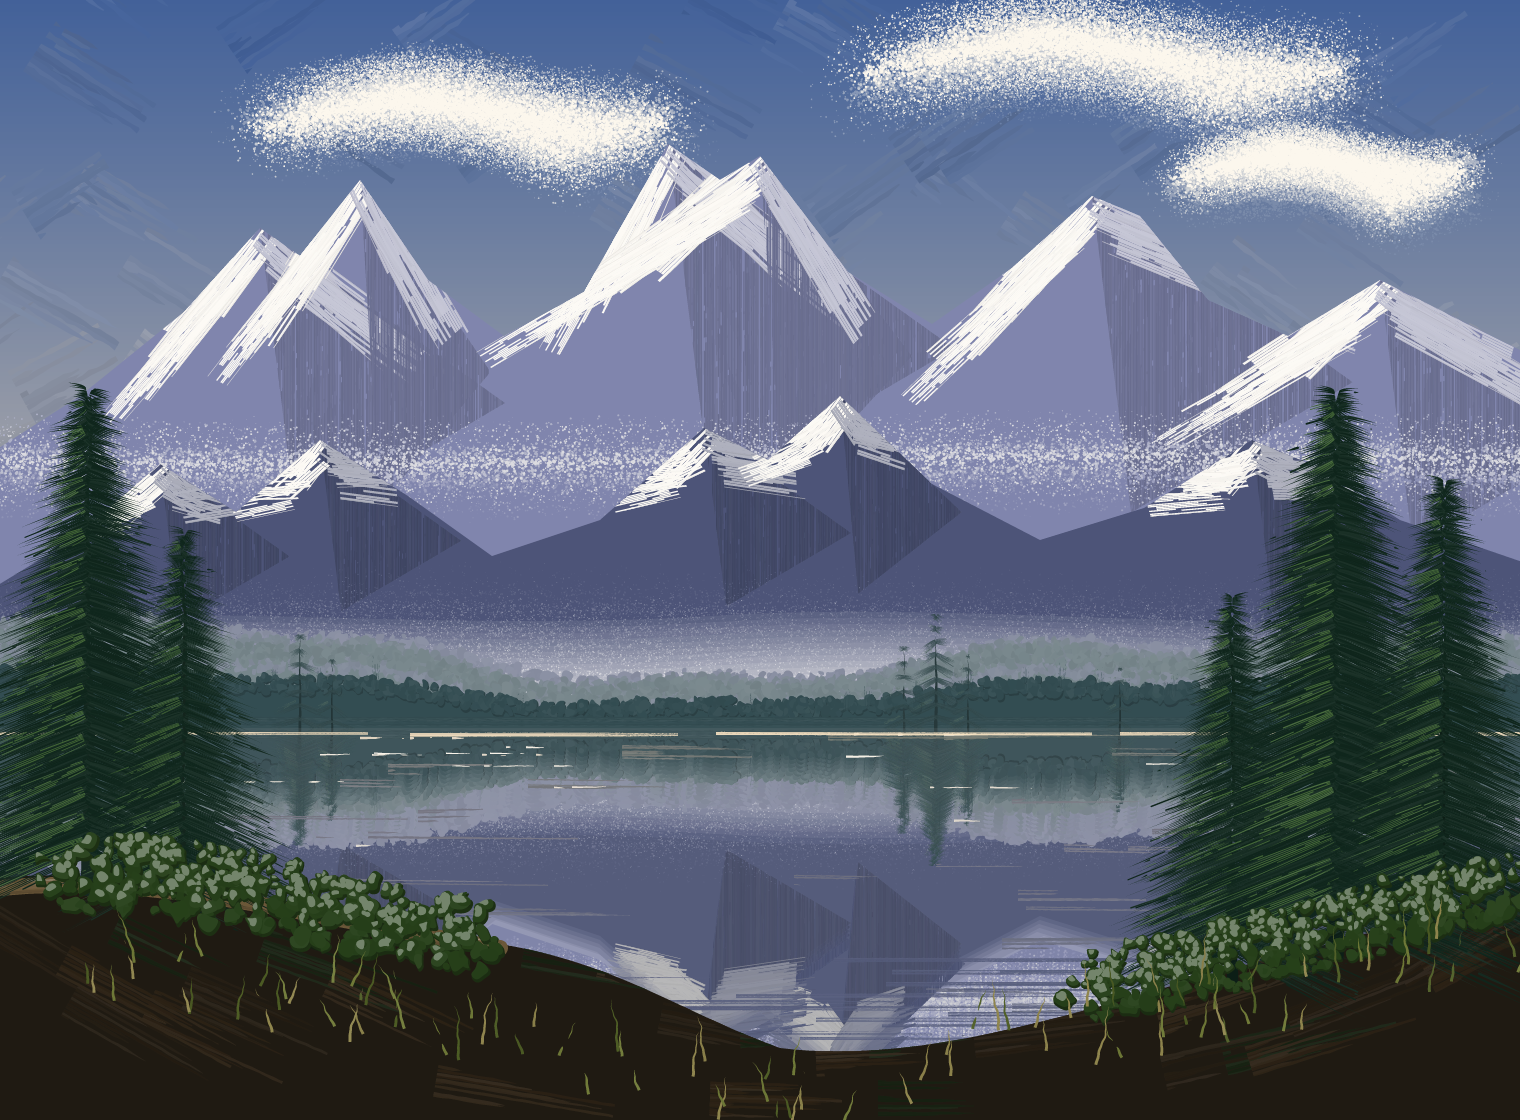
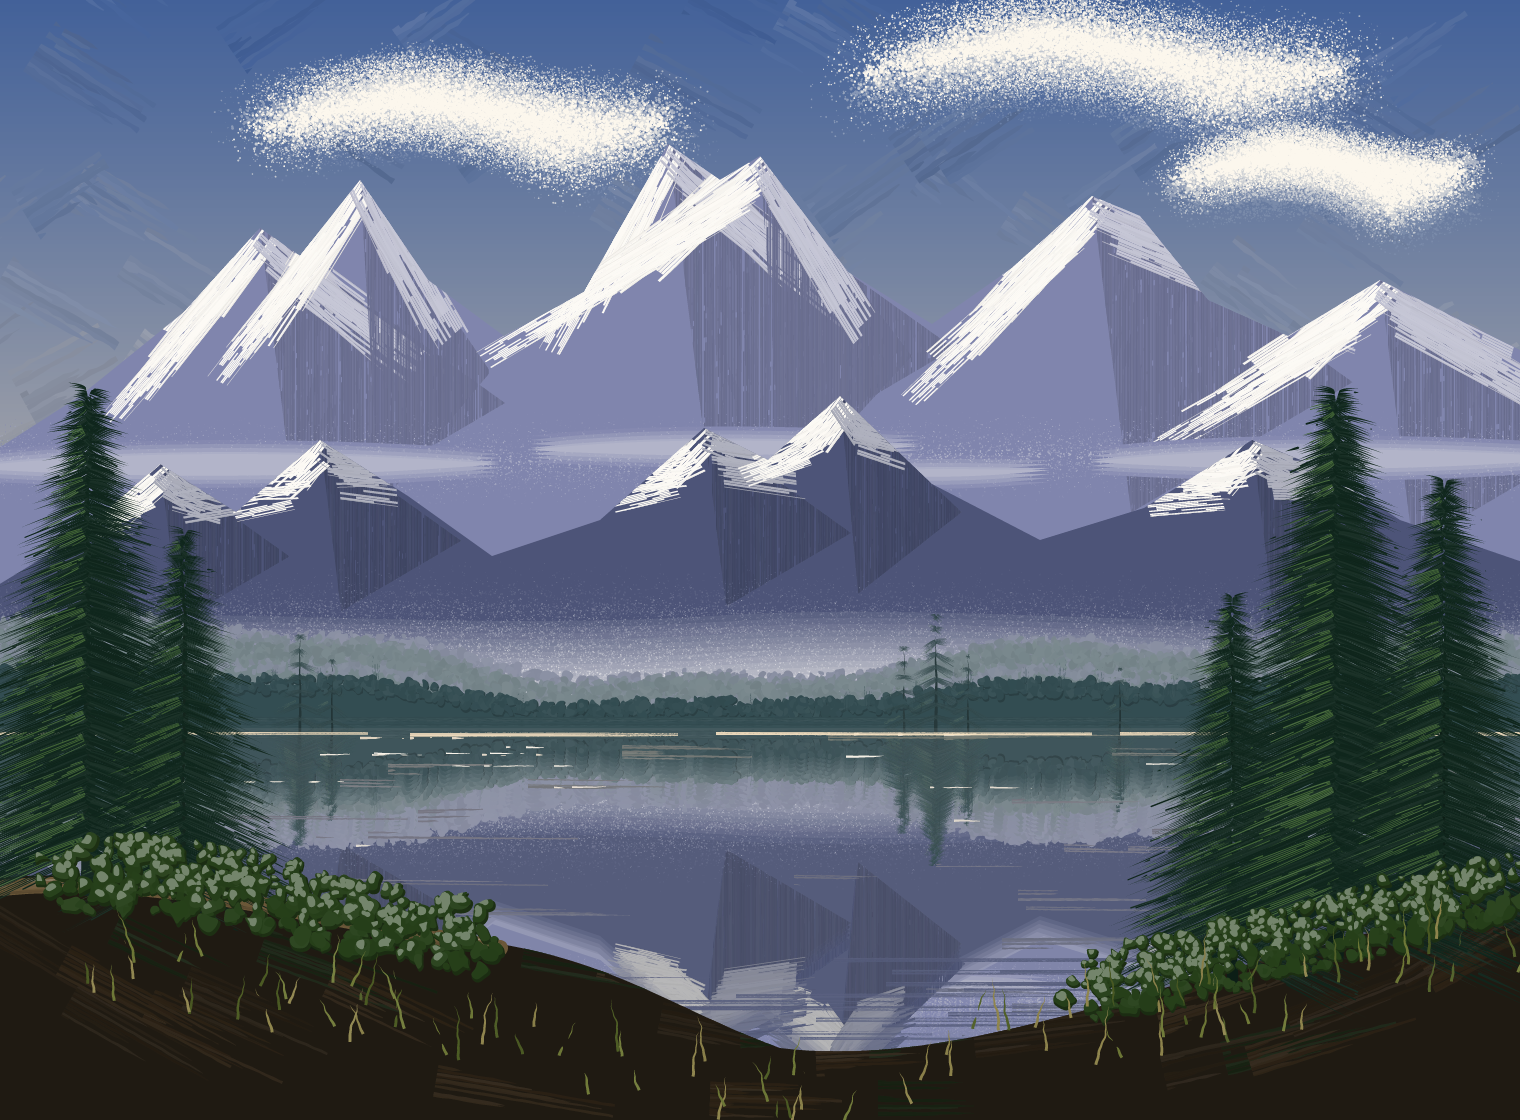
gallery: Alpine Lake's far mist as banks of haze (#407) (#445)
* gallery: Alpine Lake's far mist as banks of haze (#407)

The far range's mist band was one curve of sparse 1pt spray, which at
2x read as a granular streak. It is now four filled lenses of haze with
gaps, lifted both ways by a two-sided directional pkwet, with fine 0.6pt
spray along them -- the treatment #206 gave the near range's foot.

Claude-Session: https://claude.ai/code/session_01GTbCLDB6QC7UV1i7qukUEL

* gallery: re-render Alpine Lake still with the far mist banks (#407)

Claude-Session: https://claude.ai/code/session_01GTbCLDB6QC7UV1i7qukUEL

* gallery: bind Alpine Lake's mist procedures; notes corrections (#407)

Claude-Session: https://claude.ai/code/session_01GTbCLDB6QC7UV1i7qukUEL

---------

diff --git a/notes/407-alpine-lake-far-mist.md b/notes/407-alpine-lake-far-mist.md
@@ -1,0 +1,46 @@
+## Alpine Lake: the far range's mist as banks of haze (issue #407, 2026-10-14)
+
+#206 turned the near range's foot from gravel into haze and left the far range's mist band
+(`lkmist`, element 2, at y=330) as it was: one curve of 1pt spray at `/Density 150` under an
+isotropic `pkwet /Soft 1`. At 2x it read as a granular streak across the far range. The
+cookbook calls that grain correct for vapour, so this is taste, not a defect. All looks were
+judged at 2x against a fresh render of `main`, which matched the committed still byte for byte.
+
+**What changed.** The band is now four banks of haze: filled lenses (`lkwisp`) of different
+lengths, heights and thickness, with gaps between them, plus a sparse 0.6pt spray
+(`/Density 60`) along the old curve. They sit inside one two-sided directional `pkwet`
+(`/Direction 90 /Offset 7 /Layers 8 /Stretch 8`, not one-sided), so each bank fades up into the
+range and down toward the near one. The core colour (`lkMC`) is `lkMIST` mixed 0.45 toward
+`lkFAR`, and the reflection's part-21 pull now replays in that colour. Nested in the
+reflection's 6-layer pull that is 48 passes, under pkwet's 64x budget. (A 13-layer version
+raised `pkwet-too-many-passes` and dropped the rest of the scene, so the budget fails loudly.)
+The `lkmd` density switch, which only one call used, is gone.
+
+**Variants tried at 2x** (in order):
+- One full-width filled band with a wavering edge, `/Offset 14 /Layers 10`, core 0.3 toward the
+  range: haze rather than gravel, but it read as a ruled stripe across the picture. Its outer
+  passes are nearly `lkFAR` and opaque, so they flattened the streaked shadow planes into a light
+  bar. Using `lkMIST` for the core made a white line. Pulling the reflection sharp so the band
+  could go to `/Offset 18 /Layers 16` made the stripe wider.
+- The same band at about 4pt thick with a dimmer core (0.55), `/Offset 10`: quieter, still ruled.
+- Spray only (no banks), 0.6pt at `/Density 150` under the same two-sided lift: a finer, fainter
+  grain than before, but still a speckled streak with no body.
+- The band as four `pkdry` strokes: a wide streaky bar that covered the planes.
+- Banks with gaps (shipped): the gaps let the shadow planes and the fine grain show through,
+  and the banks' varied length and height read as drifting mist, not a rule. `/Offset 10
+  /Layers 10` was a little softer and wider; 7/8 kept the banks more distinct.
+
+**Containment.** `lkmist` reseeds itself, so only the band and its reflection should move. A
+pixel diff of the old and new 2x stills agrees: only 2x rows 406 to 522 (the band) and 935 to 1049
+(its reflection, low in the lake under the ripples) changed. In the water the old band's bright
+speckled patch is now a quieter haze, with no bar or lens shapes.
+
+**Timing.** At 1x, `--png --page 760x560`, user time: 26.5s before, 26.3s after, which is within
+noise. Ghostscript (`gs -dNOSAFER`) still renders it without error, and the banks show in its
+render too.
+
+## Not done
+
+- `gallery/README.md` is not edited (#251 is rewriting it). Its Alpine Lake entry ("`pkspray` clouds
+  and mist softened ... by `pkwet`") still holds.
+- HANDOFF.md had no entry for this leftover, so it is unchanged.

diff --git a/docs/guides/landscape-cookbook.md b/docs/guides/landscape-cookbook.md
@@ -281,8 +281,9 @@ grestore
 - A **band** is `pkwet /Soft 0.6` with `/Under` a colour between the range and the sky.
 - A **foot** is a directional `pkwet`: `/Direction 90 /OneSided true /Stretch 8 /Offset 30 /Layers 14 /Under` the range's colour. The wrapped spray is tapped along the foot and lifted up the slope in layers, so the foot dissolves into the haze rising off the lake. Clip to the range's silhouette first so the haze stays inside the range.
 - Keep `/Layers` pinned while tuning: with `/Layers` left to default, a directional `/Offset` also sets the depth and re-rolls everything after it.
-- Expect a granular fringe at 2x. The dense core fuses and the falloff stays granular; that grain is what makes it vapour and not a gradient, and Alpine Lake's mist band is the same at its 2x still. Only a coarser speck than 1 pt turns it into static.
+- Expect a granular fringe at 2x. The dense core fuses and the falloff stays granular; that grain is what makes it vapour and not a gradient. Only a coarser speck than 1 pt turns it into static. A *sparse* 1 pt band is different: at 2x it reads as a granular streak, which is why Alpine Lake's far band changed (below).
 - A lifted foot repeats whatever it wraps once per layer, so sparse 1 pt spray in it multiplies into gravel. Two settings work: fuse the spray densely, as the snippet below does, or let a solid band carry the lift (a wavering top keeps the layers' steps from ruling) with the spray only a sparse, fine grain on it (`/Speck 0.6`, `/Density` about 50), as Alpine Lake does since issue #206.
+- A band can take the same treatment as a foot (Alpine Lake's far mist since issue #407): filled lenses of haze, a two-sided directional `pkwet` (`/Direction 90 /Offset 7 /Layers 8`, not one-sided) so each fades up and down off its core, and fine sparse spray along it. Break it into banks with gaps, mix the core part-way toward the range, and keep the offset short: a full-width band reads as a ruled stripe, a full-strength core as a white line, and a long offset buries the planes beneath it in the outer passes' flat colour.
 
 **Failures.**
 - *Ruled stripes.* Alpine Lake's first mist was a stack of horizontal `pkbroad` strokes whose charge fell as they rose; at 2x it read as ruled stripes. Use the directional lift.
